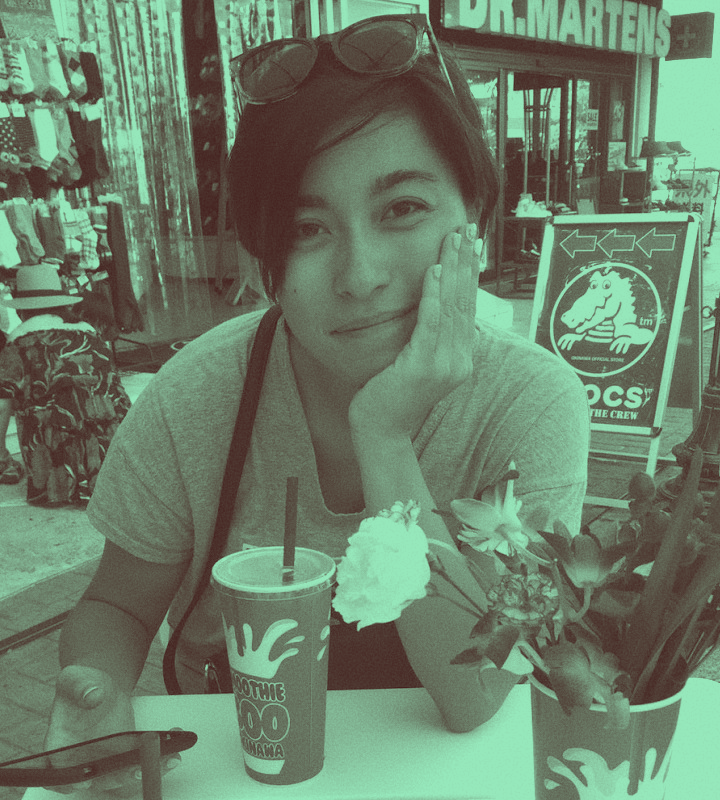
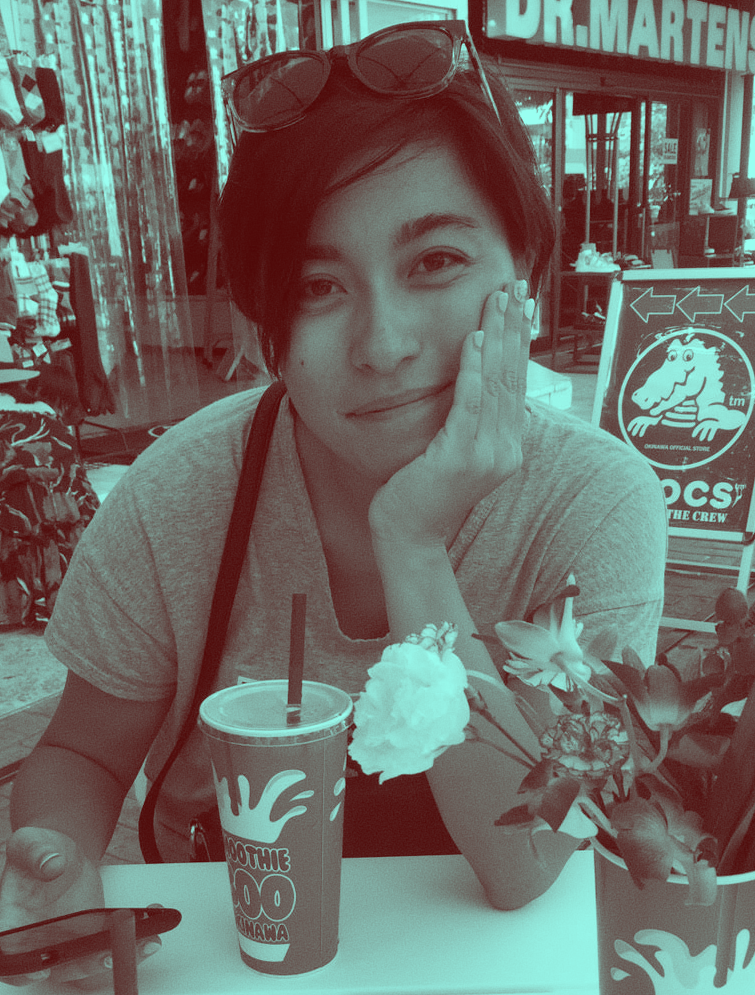
update contact and about me

diff --git a/about.html b/about.html
@@ -6,7 +6,7 @@
   <meta charset="utf-8">
   <meta content="width=device-width, initial-scale=1.0" name="viewport">
 
-  <title>Folio - Blog Singlee</title>
+  <title>Alissa Monroe - About Me</title>
   <meta content="" name="keywords">
   <meta content="" name="description">
 
@@ -67,135 +67,37 @@
     </div>
   </nav>
   <!-- End section navbar -->
-  <!-- start section main content -->
-  <div class="main-content paddsection">
+    <!-- start section about us -->
+  <div id="about" class="paddsection">
+
     <div class="container">
-      <div class="row justify-content-center">
-        <div class="col-md-8 col-md-offset-2">
-          <div class="row">
-            <div class="container-main single-main">
-              <div class="col-md-12">
-                <div class="block-main mb-30">
-                  <img src="images/blog-post-big.jpg" class="img-responsive" alt="reviews2">
-                  <div class="content-main single-post padDiv">
-                    <div class="journal-txt">
-                      <h4><a href="#">SO LETS MAKE THE MOST IS BEAUTIFUL</a></h4>
-                    </div>
-                    <div class="post-meta">
-                      <ul class="list-unstyled mb-0">
-                        <li class="author">by:<a href="#">medsign</a></li>
-                        <li class="date">date:<a href="#">March 31, 2017</a></li>
-                        <li class="commont"><i class="ion-ios-heart-outline"></i><a href="#">3 Comments</a></li>
-                      </ul>
-                    </div>
-                    <p class="mb-30">It is a long established fact that a reader will be distracted by the readable content of a page when looking at its layout. The point of using Lorem Ipsum is that it has a more-or-less normal distribution of letters, as opposed to
-                      using 'Content here, content here', making it look like readable English. Many desktop publishing packages and web page editors now use Lorem Ipsum as their default model text, and a search for 'lorem ipsum' will uncover many web
-                      sites still in their infancy. Various versions have evolved over the years, sometimes by accident, sometimes on purpose (injected humour and the like).</p>
-                    <p class="mb-30">Lorem Ipsum is simply dummy text of the printing and typesetting industry. Lorem Ipsum has been the industry's standard dummy text ever since the 1500s, when an unknown printer took a galley of type and scrambled it to make a type
-                      specimen book. It has survived not only five centuries, but also the leap into electronic typesetting, remaining essentially unchanged. It was popularised in the 1960s with the release of Letraset sheets containing Lorem Ipsum passages,
-                      and more recently with desktop publishing software like Aldus PageMaker including versions of Lorem Ipsum.</p>
-                    <blockquote>If you are still looking for that one person who will change your life, take a look in the mirror.</blockquote>
-                    <p class="mb-30">Contrary to popular belief, Lorem Ipsum is not simply random text. It has roots in a piece of classical Latin literature from 45 BC, making it over 2000 years old. Richard McClintock, a Latin professor at Hampden-Sydney College in
-                      Virginia, looked up one of the more obscure Latin words, consectetur, from a Lorem Ipsum passage, and going through the cites of the word in classical literature, discovered the undoubtable source. Lorem Ipsum comes from sections
-                      1.10.32 and 1.10.33 of "de Finibus Bonorum et Malorum" (The Extremes of Good and Evil) by Cicero, written in 45 BC. This book is a treatise on the theory of ethics, very popular during the Renaissance. The first line of Lorem Ipsum,
-                      "Lorem ipsum dolor sit amet..", comes from a line in section 1.10.32.</p>
-                  </div>
-                </div>
-              </div>
-              <div class="col-md-12">
-                <div class="comments text-left padDiv mb-30">
-                  <div class="entry-comments">
-                    <h6 class="mb-30">4 comments</h6>
-                    <ul class="entry-comments-list list-unstyled">
-                      <li>
-                        <div class="entry-comments-item">
-                          <img src="images/avatar.jpg" class="entry-comments-avatar" alt="">
-                          <div class="entry-comments-body">
-                            <span class="entry-comments-author">Sommer Christian</span>
-                            <span><a href="#">fev 14, 2018 at 12:48 pm</a></span>
-                            <p class="mb-10">Lorem ipsum dolor sit amet, consectetur adipiscing elit. Nunc quam justo, ullamcorper tincidunt pellentesque in, condimentum ut enim. Aenean at pharetra diam, quis vulputate urna. </p>
-                            <a class="rep" href="#">Reply</a>
-                          </div>
-                        </div>
-                        <ul class="entry-comments-reply list-unstyled">
-                          <li>
-                            <div class="entry-comments-item">
-                              <img src="images/avatar.jpg" class="entry-comments-avatar" alt="">
-                              <div class="entry-comments-body">
-                                <span class="entry-comments-author">Sara Smith</span>
-                                <span><a href="#">fev 14, 2018 at 12:51 pm</a></span>
-                                <p class="mb-10">Lorem ipsum dolor sit amet, consectetur adipiscing elit. Nunc quam justo, ullamcorper tincidunt pellentesque in, condimentum ut enim. Aenean at pharetra diam, quis vulputate urna.</p>
-                                <a class="rep" href="#">Reply</a>
-                              </div>
-                            </div>
-                          </li>
-                        </ul>
-                      </li>
-                      <li>
-                        <div class="entry-comments-item">
-                          <img src="images/avatar.jpg" class="entry-comments-avatar" alt="">
-                          <div class="entry-comments-body">
-                            <span class="entry-comments-author">Andrew Lupkin</span>
-                            <span><a href="#">fev 14, 2018 at 12:55 pm</a></span>
-                            <p class="mb-10">Lorem ipsum dolor sit amet, consectetur adipiscing elit. Nunc quam justo, ullamcorper tincidunt pellentesque in, condimentum ut enim. Aenean at pharetra diam, quis vulputate urna. </p>
-                            <a class="rep" href="#">Reply</a>
-                          </div>
-                        </div>
-                      </li>
-                    </ul>
-                  </div>
-                </div>
-              </div>
-              <div class="col-lg-12">
-                <div class="cmt padDiv">
-                  <form id="comment-form" method="post" action="" role="form">
-                    <div class="row">
-                        <div class="col-lg-6">
-                          <div class="form-group">
-                            <input id="form_name" type="text" name="name" class="form-control" placeholder="Name *" required="required">
-                          </div>
-                        </div>
-                        <div class="col-lg-6">
-                          <div class="form-group">
-                            <input id="form_email" type="email" name="email" class="form-control" placeholder="email *" required="required">
-                          </div>
-                        </div>
-                        <div class="col-md-12">
-                          <div class="form-group">
-                            <input id="form_name" type="text" name="website" class="form-control" placeholder="Website">
-                          </div>
-                        </div>
-                        <div class="col-lg-12">
-                          <div class="form-group">
-                            <textarea id="form_message" name="message" class="form-control" placeholder="Message *" style="height: 200px;" required="required"></textarea>
-                          </div>
-                        </div>
-                        <div class="col-lg-12">
-                          <input type="submit" class="btn btn-defeault btn-send" value="Send message">
-                        </div>
-                    </div>
-                  </form>
-                </div>
-              </div>
+      <div class="row justify-content-between">
+
+        <div class="col-lg-4 ">
+          <div class="div-img-bg2">
+            <div class="about-img2">
+              <img src='images/alissa.png' onmouseover="this.src='images/alissa-hover.png';" onmouseout="this.src='images/alissa.png';" alt="picture of myself" "/>
             </div>
           </div>
+        </div>
+
+        <div class="col-lg-7">
+          <div class="about-descr">
+
+            <p class="p-heading"><br><br>i'm a st. paul based student who has a passion for software engineering, web design, communication, and leadership. </p>
+            <a href="about.html">LEARN MORE</a>
+          </div>
+
         </div>
       </div>
     </div>
   </div>
-  <!--  </div> -->
-  <!-- start section main content -->
+  <!-- end section about us -->
 
   <!-- start section footer -->
   <div id="footer" class="text-center">
     <div class="container">
       <div class="socials-media text-center">
-
-        <ul class="list-unstyled">
-          <li><a href="https://www.facebook.com/alissammonroe" target="_blank"><i class="ion-social-facebook"></i></a></li>
-          <li><a href="https://www.instagram.com/alissamonroe" target="_blank"><i class="ion-social-instagram"></i></a></li>
-          <li><a href="https://www.linkedin.com/in/alissa-monroe-4847b1114/" target="_blank"><i class="ion-social-linkedin"></i></a></li>
-        </ul>
 
       </div>
 

diff --git a/index.html b/index.html
@@ -74,12 +74,6 @@
       <div class="header-content">
         <h1><span class="typed"></span></h1>
         <p>full time mom & student. 23 & Fueled by chai. <br> computer science, math, & media production.</p>
-
-        <ul class="list-unstyled list-social">
-          <li><a href="https://www.facebook.com/alissammonroe" target="_blank"><i class="ion-social-facebook"></i></a></li>
-          <li><a href="http://www.instagram.com/alissamonroe" target="_blank"><i class="ion-social-instagram"></i></a></li>
-          <li><a href="https://www.linkedin.com/in/alissa-monroe" target="_blank"><i class="ion-social-linkedin"></i></a></li>
-        </ul>
       </div>
     </div>
   </div>
@@ -95,7 +89,7 @@
         <div class="col-lg-4 ">
           <div class="div-img-bg">
             <div class="about-img">
-              <img src="images/me.png" class="img-responsive" alt="me">
+              <img src='images/me.png' onmouseover="this.src='images/me-hover.png';" onmouseout="this.src='images/me.png';" alt="picture of myself"/>
             </div>
           </div>
         </div>
@@ -103,7 +97,7 @@
         <div class="col-lg-7">
           <div class="about-descr">
 
-            <p class="p-heading"><br><br>i'm a st. paul based student and mother who has a passion for software engineering, web design, communication, and leadership. </p>
+            <p class="p-heading"><br><br>i'm a st. paul based student who has a passion for software engineering, web design, communication, and leadership. </p>
             <a href="about.html">LEARN MORE</a>
           </div>
 
@@ -295,12 +289,11 @@
               <h2 class="mb-30">REACH ME AT...</h2>
 
               <ul class="contact-details">
-                <li><span>Cell:</span></li>
-                <li><span><a href="tel:1-507-616-6133">+1 (507) 616-6133</a>
-</span></li>
+                <li><span><i class="ion-ios-telephone" id="contact-icon"></i> <a href="tel:1-507-616-6133">+1 (507) 616-6133</a></span></li>
                 <br>
-                <li><span>Email:</span></li>
-                <li><span><a href=mailto:contact@alissamonroe.net?>contact@alissamonroe.net</a></span></li>
+                <li><span><i class="ion-ios-email" id="contact-icon"></i> </span><a href=mailto:contact@alissamonroe.net?>contact@alissamonroe.net</a></span></li>
+                <br>
+                <li><span><i class="ion-social-linkedin" id="contact-icon"></i> <a href="https://www.linkedin.com/in/alissa-monroe">linkedin.com/in/alissa-monroe</a></span></li>
                 <br>
                 <li><span>or feel free to use the contact form <br> and I'll get back to you as soon as I can!</span></li>
               </ul>
@@ -338,12 +331,6 @@
   <div id="footer" class="text-center">
     <div class="container">
       <div class="socials-media text-center">
-
-        <ul class="list-unstyled">
-          <li><a href="https://www.facebook.com/alissammonroe" target="_blank"><i class="ion-social-facebook"></i></a></li>
-          <li><a href="https://www.instagram.com/alissamonroe" target="_blank"><i class="ion-social-instagram"></i></a></li>
-          <li><a href="https://www.linkedin.com/in/alissa-monroe-4847b1114/" target="_blank"><i class="ion-social-linkedin"></i></a></li>
-        </ul>
 
       </div>
       <p>&copy; 2019 Alissa Monroe. All rights reserved.</p>

diff --git a/css/style.css b/css/style.css
@@ -177,6 +177,11 @@ p {
   margin-bottom: 30px;
 }
 
+#contact-icon {
+  font-size:25px;
+  padding-right: 5px;
+}
+
 /*-----------------------------------------------------------------------------------*/
 /*  Navbar Top
 /*-----------------------------------------------------------------------------------*/
@@ -304,12 +309,29 @@ nav ul li a {
   border: 20px solid #95413e;
 }
 
+#about .div-img-bg2 {
+  padding-bottom: 30px;
+  border: 20px solid #93c5be;
+  width: 125%;
+}
+
 #about .div-img-bg .about-img img {
   width: 100%;
   box-shadow: 0px 0px 85px 0px rgba(0, 0, 0, 0.14);
   margin-top: -60px;
   margin-left: 40px;
   height: 400px;
+  object-fit: cover;
+}
+
+
+#about .div-img-bg2 .about-img2 img {
+  width: 100%;
+  box-shadow: 0px 0px 85px 0px rgba(0, 0, 0, 0.14);
+  margin-top: -60px;
+  margin-left: 40px;
+  height: 400px;
+  width: 400px;
   object-fit: cover;
 }
 
@@ -462,7 +484,7 @@ nav ul li a {
 #portfolio {
   position: relative;
   padding-bottom: 50px;
-  background: #f7f7f7;
+  background: #fff;
 }
 
 #portfolio .portfolio-list {
